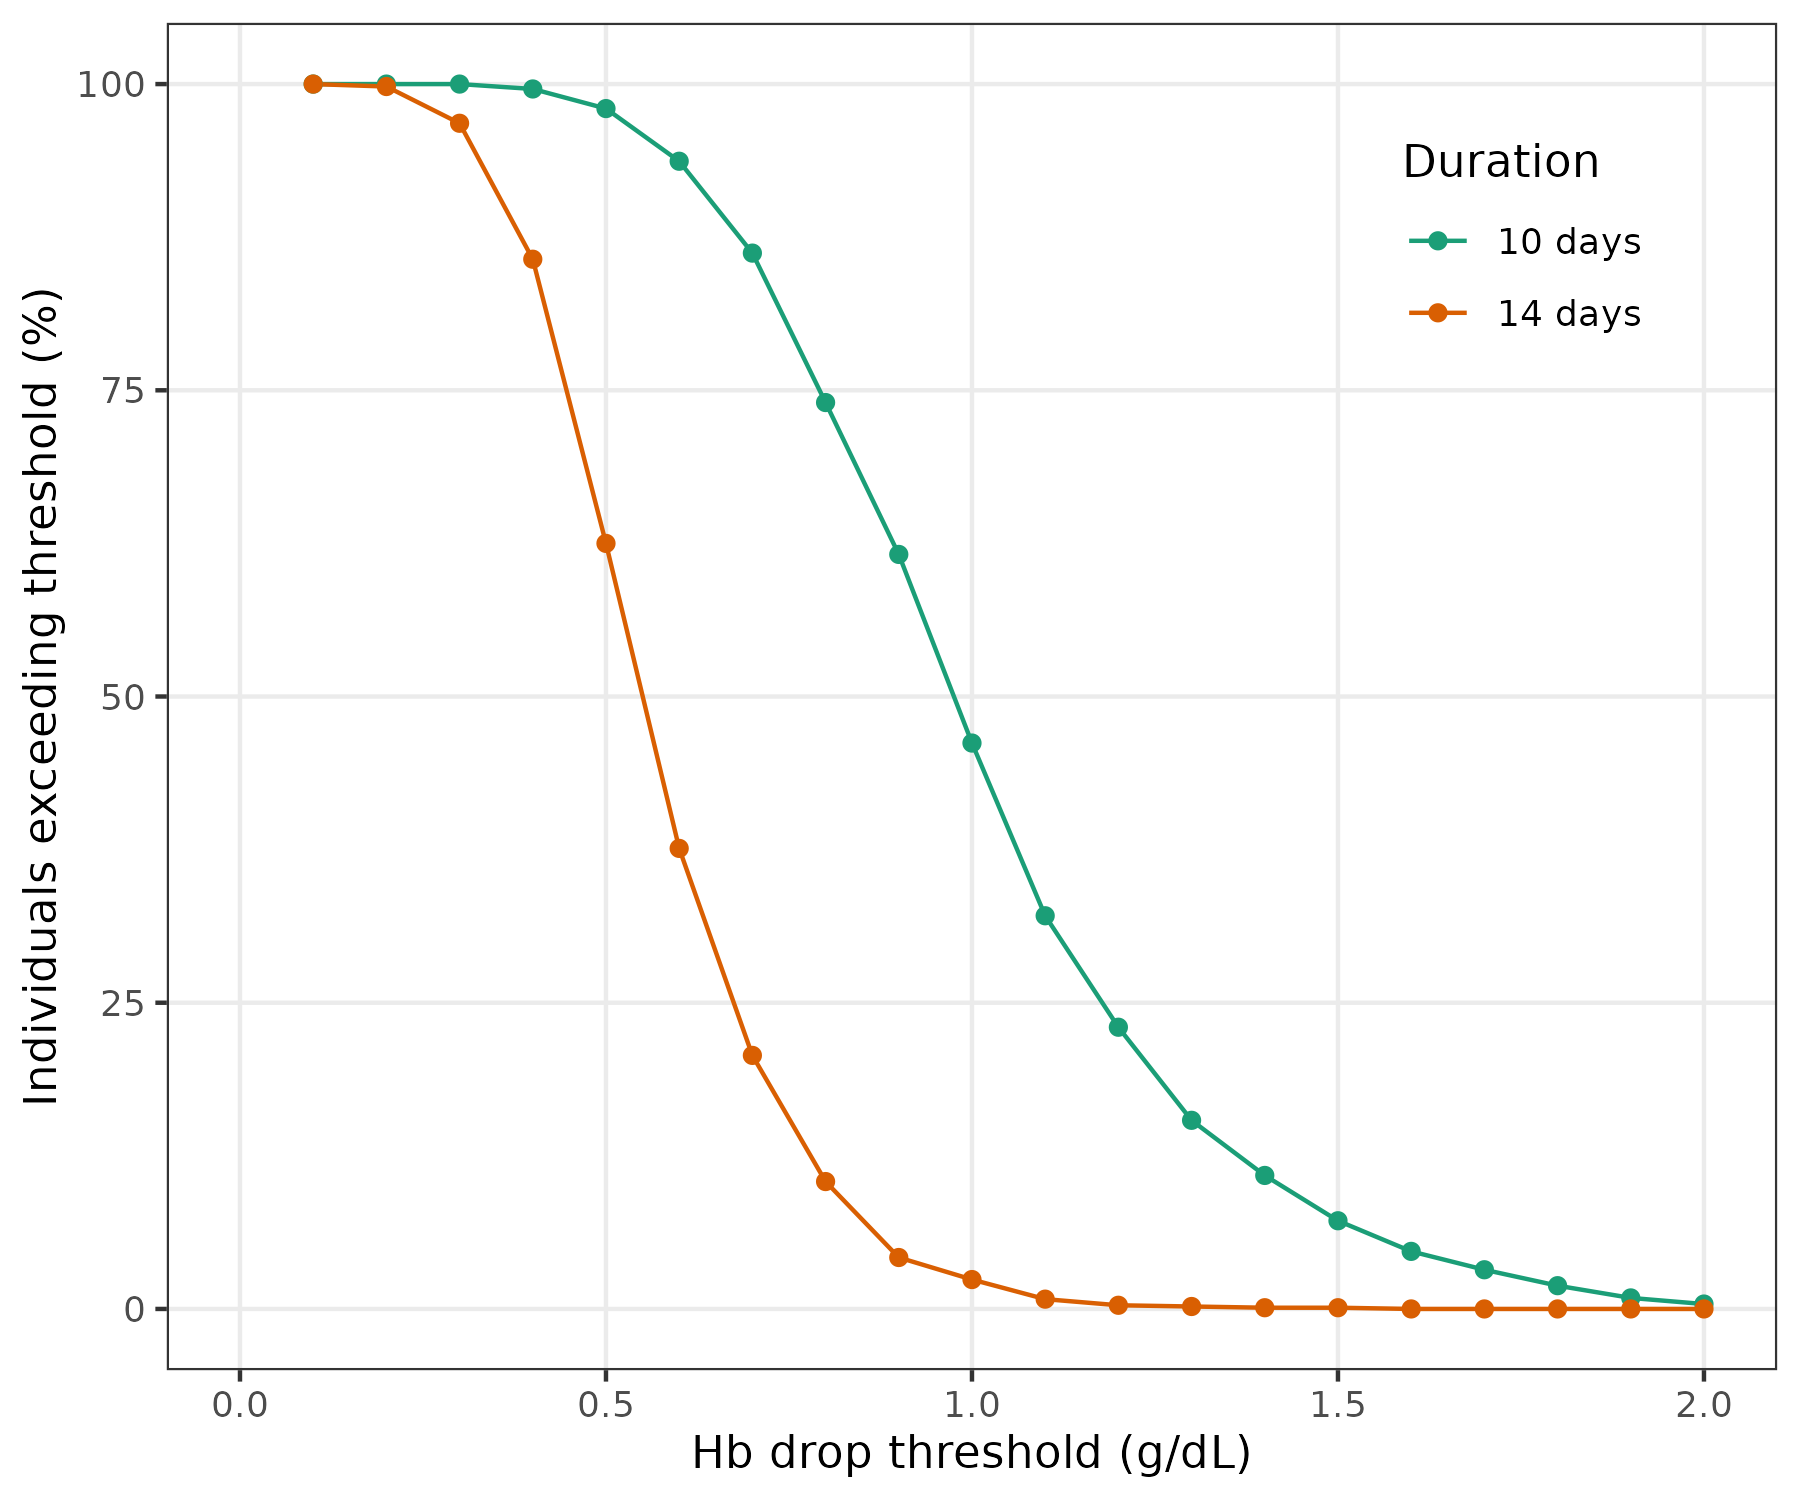
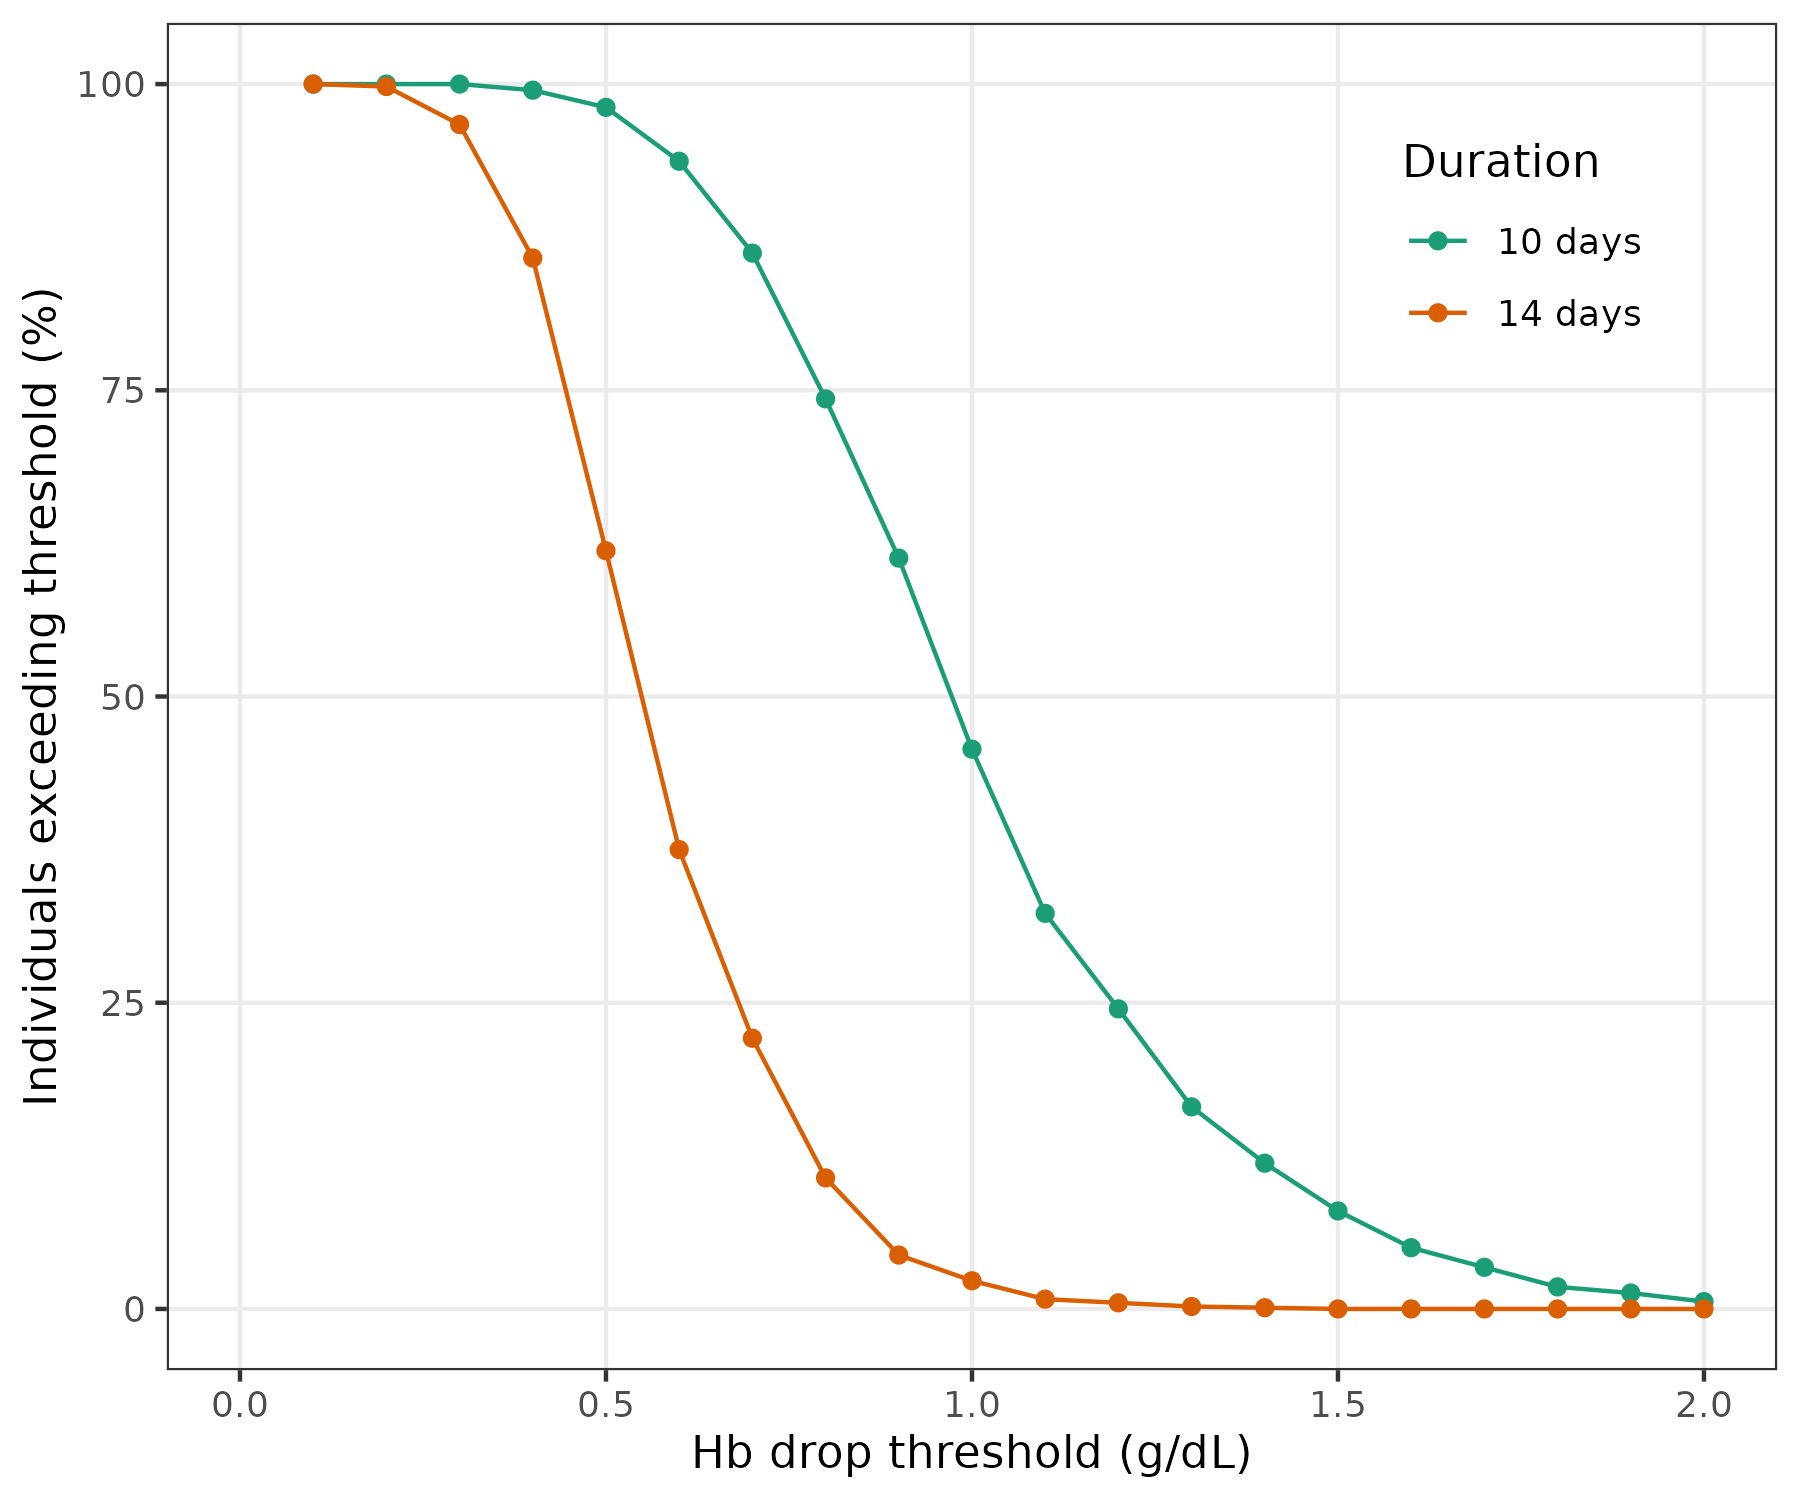
Updated plots for variable body weight
Sampling individual body weights, as opposed to using a fixed weight of
60 kg, results in minor changes to these figures.

diff --git a/optimal-dose-regimens/README.md b/optimal-dose-regimens/README.md
@@ -91,6 +91,17 @@ It also creates the following plots:
 - `individuals-exceeding-threshold-num-optimal.png`; and
 - `individuals-exceeding-threshold-optimal-regimens.png`.
 
+## Identify near-optimal dose regimens
+
+```sh
+./evaluate-regimen-goodness.R
+```
+
+This script creates the following plots:
+
+- `regimens-1gdl-drop-histogram.png`; and
+- `regimens-1gdl-drop-intervals.png`
+
 ## Compare effective dose curves
 
 The `compare-effective-dose-curves.R` script plots the effective dose curves for optimal 10-day and 14-day dose regimens against those of the regimens that were administered in the ascending-dose study:
